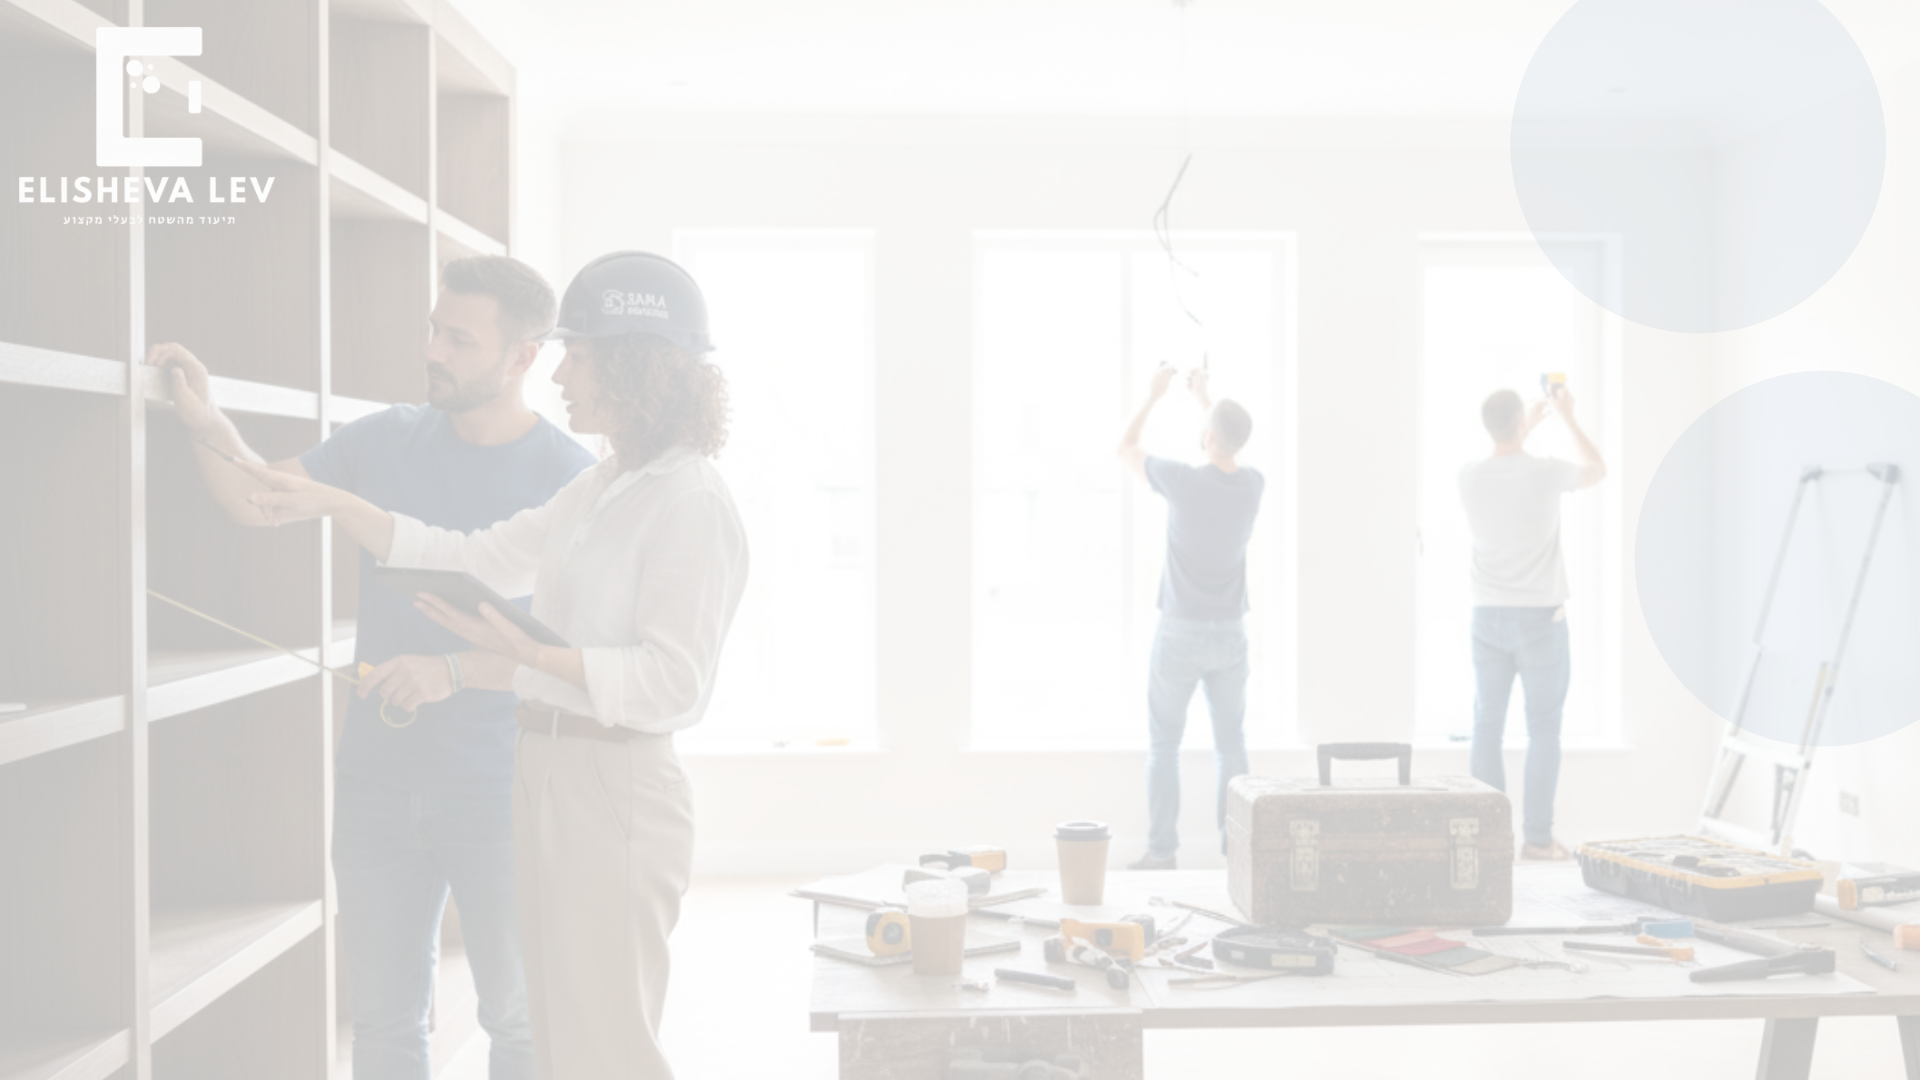
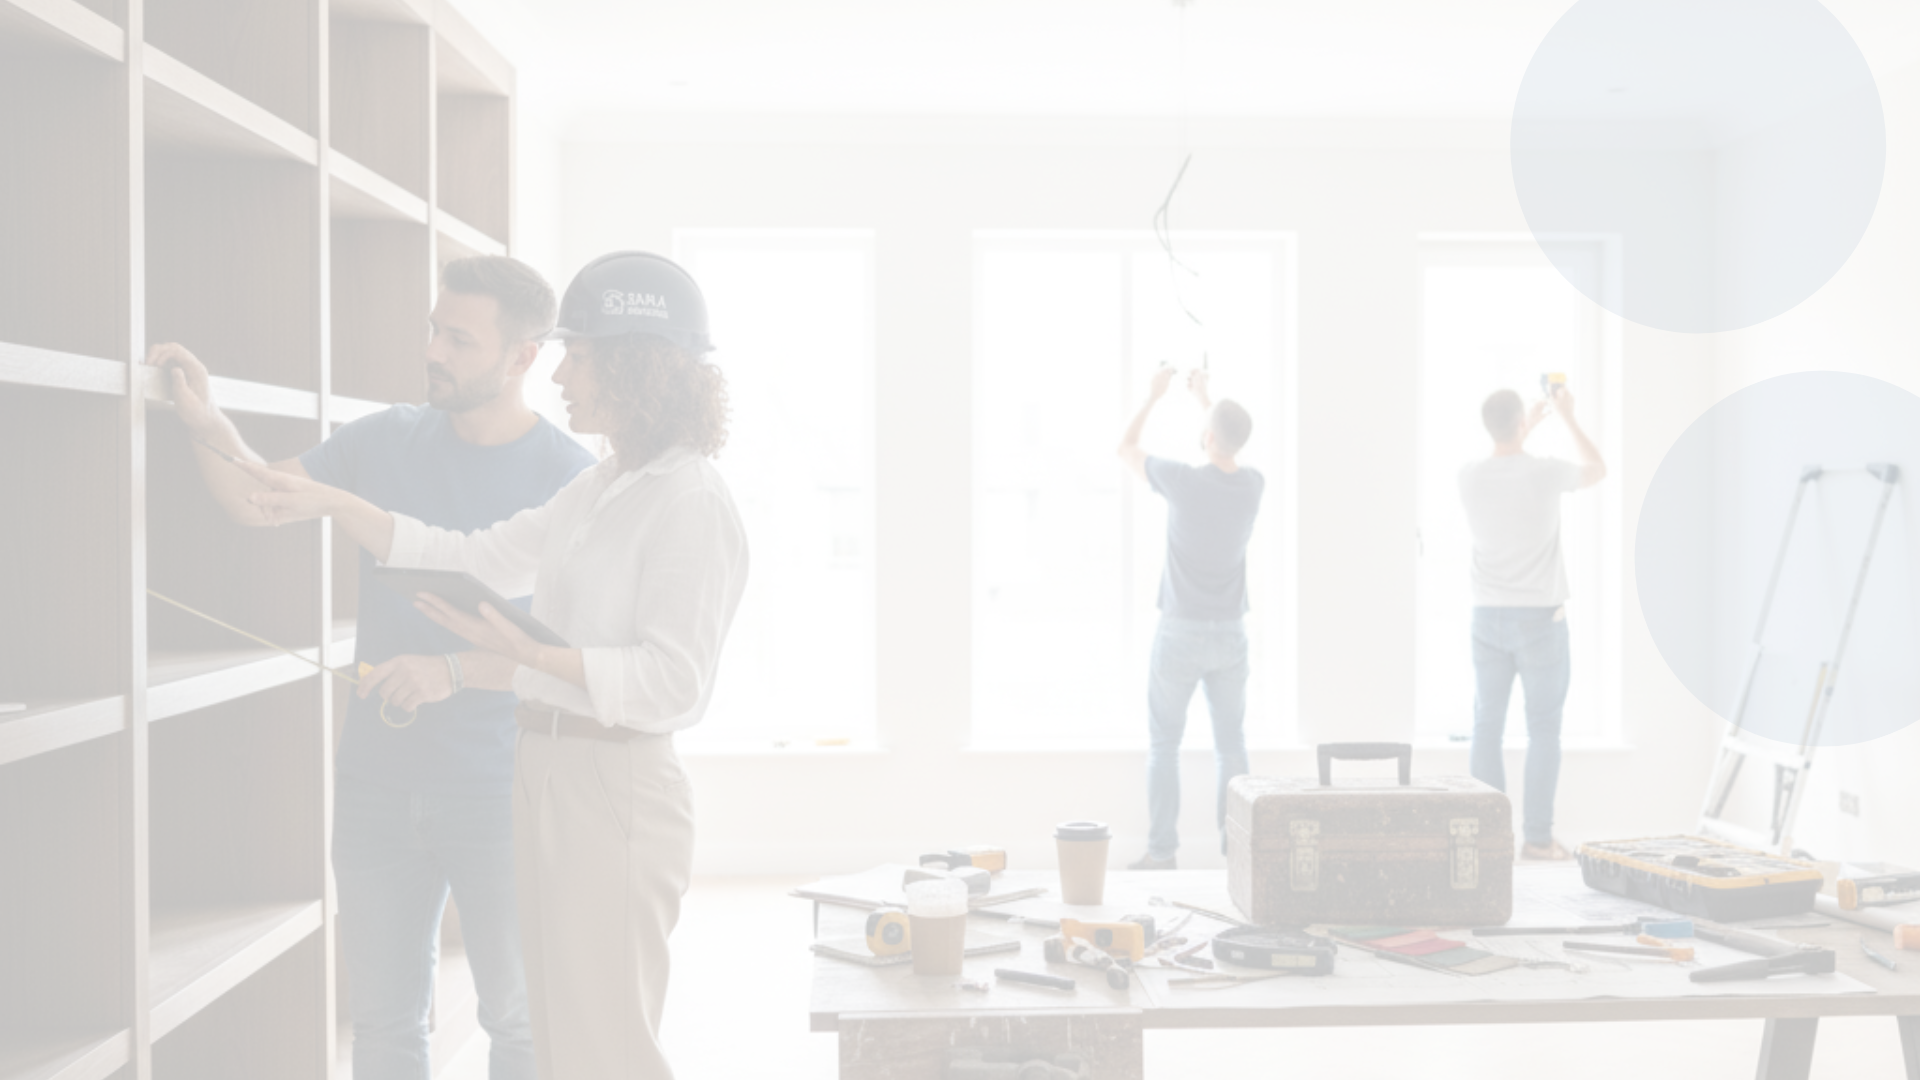
Update images and modify text for clarity; adjust background opacity in CSS

Changed region(s): [[0.0, 0.0, 0.1562, 0.2139]]

diff --git a/index.html b/index.html
@@ -15,7 +15,7 @@
         <section class="page hero-section">
             <div class="page-content">
                 <h1 class="scroll-animate">את עובדת קשה,<br>יש לך תוצאות<br>מדהימות בשטח<br>אבל לא רואים את זה?</h1>
-                <p class="scroll-animate">אין לך זמן לצלם בתוך כדי עבודה,</p>
+                <p class="scroll-animate">אין לך זמן לצלם תוך כדי עבודה,</p>
                 <p class="scroll-animate">פוסטים "מעוצבים מדי" לא באמת מייצגים אותך!?</p>
                 <span class="highlight scroll-animate-scale">לא מבינים באמת מה הערך המטורף<br>שאת נותנת!</span>
                 <p class="scroll-animate">התוצאה?</p>

diff --git a/style.css b/style.css
@@ -44,7 +44,7 @@ body {
     left: 0;
     width: 100%;
     height: 100%;
-    background-color: rgba(0, 0, 0, 0.6);
+    background-color: rgba(0, 0, 0, 0.2);
     z-index: 1;
 }
 
